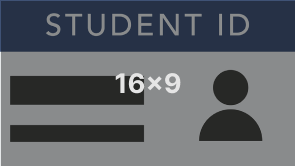
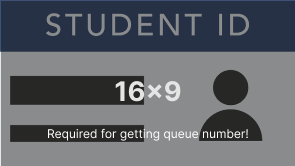
unique id of hour and card required added

Changed region(s): [[0.1525, 0.753, 0.8542, 0.8434], [0.3661, 0.4217, 0.6102, 0.6325]]

diff --git a/src/Profile.js b/src/Profile.js
@@ -8,7 +8,6 @@ function Profile() {
   const { currentUser } = useAuthValue()
   const [photo, setPhoto] = useState(null)
   const [loading, setLoading] = useState(false)
-  const [candel, setCandel] = useState(false)
   const [size, setSize] = useState(0)
   const [queuenum, setQueuenum] = useState(null)
   const [photoURL, setPhotoURL] = useState(null)
@@ -27,7 +26,7 @@ function Profile() {
     // console.log('PHOTO: ', photo)
     // console.log('CURRENT USER: ', currentUser)
     // console.log('LOADING: ', loading)
-    upload(photo, currentUser, setLoading, setPhotoURL, setCandel)
+    upload(photo, currentUser, setLoading, setPhotoURL)
   }
 
   useEffect(() => {
@@ -79,8 +78,11 @@ function Profile() {
   const imageToDefault = ({ currentTarget }) => {
     console.log('ON ERROR TRIGGERED')
     currentTarget.onerror = null // prevents looping
-    setCandel(true)
+    deletePhoto(currentUser, setPhotoURL)
   }
+
+  const toChars = (n) =>
+    `${n >= 26 ? toChars(Math.floor(n / 26) - 1) : ''}${'ABCDEFGHIJKLMNOPQRSTUVWXYZ'[n % 26]}`
 
   return (
     <div className='center'>
@@ -89,7 +91,7 @@ function Profile() {
           <div className='ticket-visual_ticket-number-wrapper'>
             <br />
             <div className='ticket-visual_ticket-number'>Ticket</div>
-            <br />
+            <p>{currentUser?.email}</p>
             <br />
           </div>
           <div className='ticket-visual_profile'>
@@ -120,7 +122,13 @@ function Profile() {
               <br />
               <div className='ticket-profile_text font-mplus'>
                 {current.toLocaleDateString('en-US', options)}
-                <span className='meta'> | 5:00 PM</span>
+                <span className='meta'>
+                  {' '}
+                  |{' #'}
+                  {toChars(current.getHours()) +
+                    toChars(current.getDate()) +
+                    toChars(current.getMonth())}
+                </span>
               </div>
             </div>
           </div>
@@ -131,27 +139,21 @@ function Profile() {
               {queuenum ? (
                 <div className='ticket-visual_ticket-number'>№ {`${queuenum}`}</div>
               ) : (
-                <span className='btn' onClick={() => handleSubmit()}>
-                  Get Queue Number
-                </span>
+                <button className='btn' disabled={photoURL == null} onClick={() => handleSubmit()}>
+                  {!photoURL ? 'Please upload your STUDENT ID!' : 'Get Queue Number'}
+                </button>
               )}
             </div>
           ) : (
             <button className='btn' disabled>
-              Please wait till <b>4 PM</b>
+              Please wait till 4 PM
             </button>
           )}
           <br />
           <br />
           <span className='link' onClick={() => signOut(auth)}>
-            Sign Out
+            Log Out
           </span>
-
-          {candel && (
-            <span className='link' onClick={() => deletePhoto(currentUser, setPhotoURL, setCandel)}>
-              {' | '}Delete Image
-            </span>
-          )}
         </div>
       </div>
     </div>

diff --git a/src/firebase.js b/src/firebase.js
@@ -31,11 +31,10 @@ async function upload(file, currentUser, setLoading, setPhotoURL) {
   // alert('Uploaded file!')
 }
 
-function deletePhoto(currentUser, setPhotoURL, setCandel) {
+function deletePhoto(currentUser, setPhotoURL) {
   updateProfile(currentUser, { photoURL: '' }).then(() => {
     // alert('photoURL deleted!')
     setPhotoURL(null)
-    setCandel(false)
   })
 }
 
